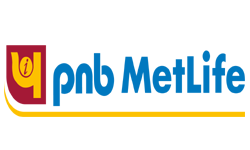
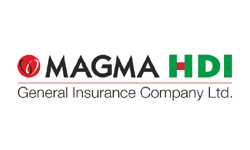
update images of general and health insurance

Changed region(s): [[0.0, 0.2933, 0.98, 0.8]]

diff --git a/src/components/homeComponets/OurPartners.jsx b/src/components/homeComponets/OurPartners.jsx
@@ -7,7 +7,7 @@ import 'swiper/css';
 import 'swiper/css/navigation';
 import 'swiper/css/pagination';
 
-const OurPartners = ({ Ourpartners }) => {
+const OurPartners = ({ general ,health }) => {
   return (
     <>
       <main className='block xs:block sm:flex md:flex lg:flex xl:flex xl:w-1/2'>
@@ -28,7 +28,7 @@ const OurPartners = ({ Ourpartners }) => {
                 disableOnInteraction: false,
               }}
               className='container '>
-              {Ourpartners.map((obj, idx) => (
+              {health.map((obj, idx) => (
                 <SwiperSlide className='rounded-2xl xl:pl-10 xl:pr-10 pb-10' key={idx}>
                   <NavLink to="#">
                     <img src={obj.img} className='w-full' alt={`slide-${idx}`} />
@@ -56,7 +56,7 @@ const OurPartners = ({ Ourpartners }) => {
                 disableOnInteraction: false,
               }}
               className='container-fluid'>
-              {Ourpartners.map((obj, idx) => (
+              {general.map((obj, idx) => (
                 <SwiperSlide className='rounded-2xl xl:pl-10 xl:pr-10 pb-10' key={idx}>
                   <NavLink to="#">
                     <img src={obj.img} className='w-full' alt={`slide-${idx}`} />

diff --git a/src/components/home/Home.jsx b/src/components/home/Home.jsx
@@ -196,26 +196,35 @@ const headingSlider = [
     }
 ]
 
-const Ourpartners = [{
-    img: "/1.png"
+
+const Health = [{
+    img: "/h3.png"
+},{
+    img: "/h2.png"
+},
+{
+    img: "/h1.png"
+}]
+
+
+const general = [{
+    img: "/7.png"
 },{
     img: "/2.png"
 },{
     img: "/3.png"
 },{
     img: "/4.png"
-},{
+},
+{
     img: "/5.png"
 },{
     img: "/6.png"
 },{
-    img: "/7.png"
-},
-{
-    img: "/8.png"
-},{
-    img: "/9.png"
+    img: "/1.png"
 }
+
+
 ]
 
 
@@ -233,7 +242,7 @@ const Home = () => {
         <HomeSection5/>
         <HomeSection6/>
         <FourthCarousel/>
-        <OurPartners Ourpartners = {Ourpartners}/>
+        <OurPartners general= {general} health = {Health}/>
     </>
     )
 }
